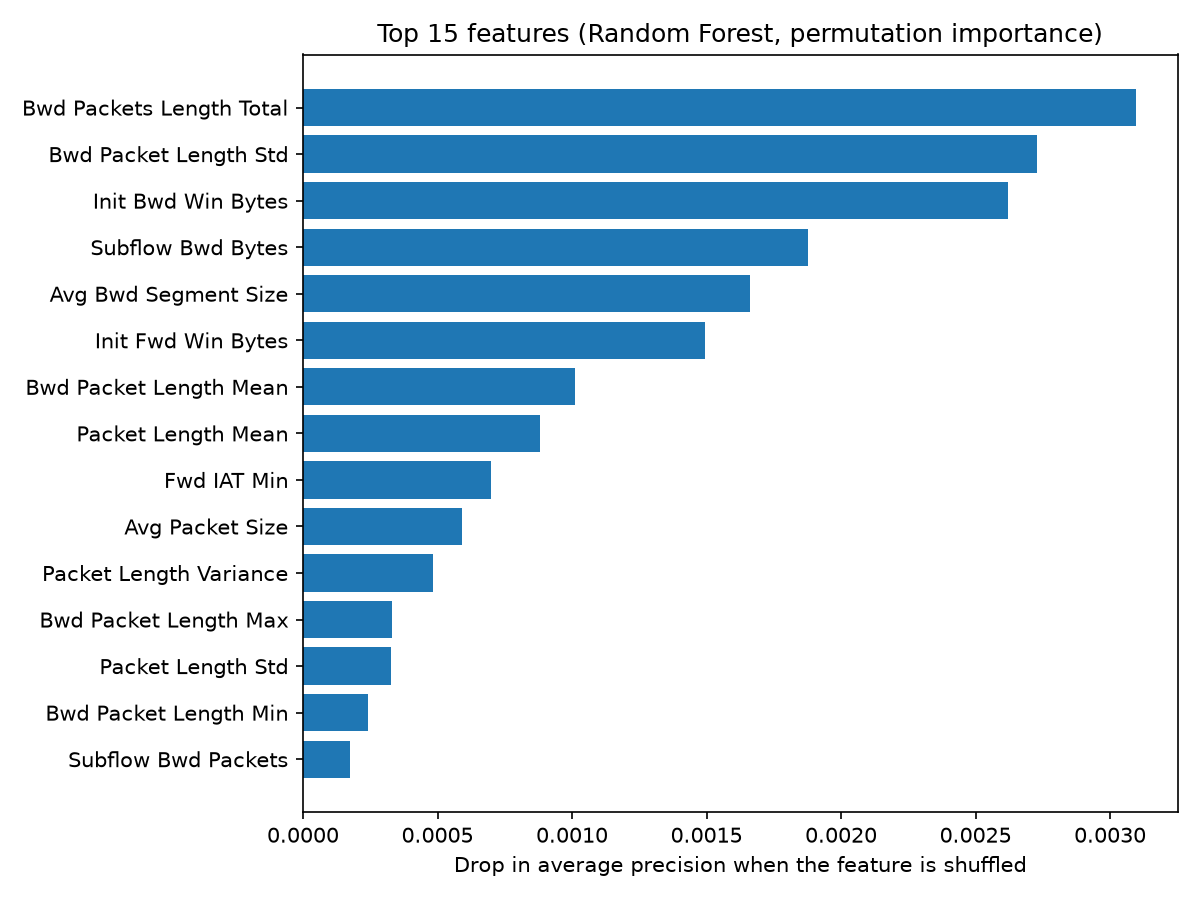
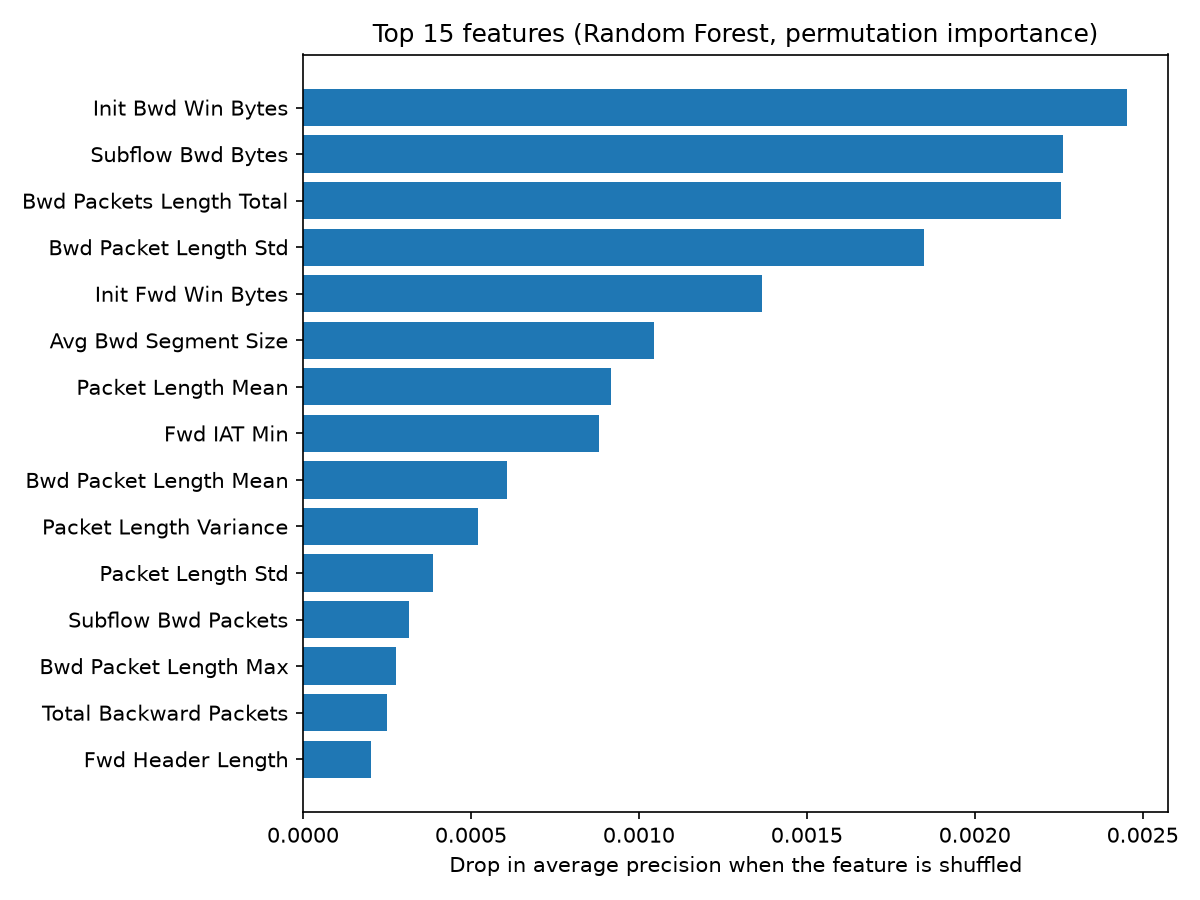
Update README and feature importance for the validation-split results

diff --git a/README.md b/README.md
@@ -1,4 +1,4 @@
-# Network Intrusion Detection System (ML)
+# Network Intrusion Detection System (ML)
 
 Machine-learning NIDS trained on the CIC-IDS2017 dataset, with an interactive Streamlit dashboard for exploring detections, false alarms, and the effect of the alert threshold.
 
@@ -38,9 +38,9 @@ Attack classes are heavily imbalanced: Heartbleed (11 flows), Infiltration (36) 
 ## Methodology
 
 1. `src/data_loader.py`: load, normalize labels (a corrupted dash in the web-attack labels is fixed), cast to float32, deduplicate globally, cache to Parquet.
-2. `src/preprocess.py`: drop constant features; 70/30 split stratified on the full attack label.
+2. `src/preprocess.py`: drop constant features; 70/30 split stratified on the full attack label, then the training part is split again 75/25 (52.5% train, 17.5% validation, 30% test).
 3. `src/train.py`: binary detection (benign vs attack) with Random Forest (100 trees, depth 20) and HistGradientBoosting (200 iterations), both class-weighted.
-4. `src/analyze.py`: threshold sweep, PR curves, confusion matrices.
+4. `src/analyze.py`: threshold sweep, PR curves, confusion matrices; alert thresholds are chosen on the validation set and saved to `models/thresholds.json`.
 5. `src/unseen_attacks.py`: hold out one attack family at a time and compare the supervised Random Forest with an Isolation Forest trained only on benign traffic.
 6. `src/explain.py`: permutation importance on 30,000 test flows.
 
@@ -50,19 +50,19 @@ Attack classes are heavily imbalanced: Heartbleed (11 flows), Infiltration (36) 
 
 | | Random Forest | Hist Gradient Boosting |
 |---|---|---|
-| Precision | 99.51% | 98.91% |
-| Recall | 99.72% | 99.90% |
-| False positive rate | 0.09% | 0.20% |
-| Missed attacks | 285 | 98 |
-| False alarms | 495 | 1,116 |
+| Precision | 99.53% | 99.21% |
+| Recall | 99.67% | 99.92% |
+| False positive rate | 0.09% | 0.14% |
+| Missed attacks | 337 | 81 |
+| False alarms | 476 | 806 |
 
-The threshold matters more than the model. With a budget of 0.1% false alarms, Random Forest catches 99.77% of attacks and HistGradientBoosting 99.71%. Both thresholds were picked on the test set, so these figures are slightly optimistic.
+The threshold matters more than the model. I chose each threshold on a separate validation split to stay within a 0.1% false-alarm budget (Random Forest 0.474, HistGradientBoosting 0.715), then evaluated it once on the untouched test set. Random Forest catches 99.70% of attacks (299 missed, 535 false alarms) and HistGradientBoosting 99.81% (187 missed, 536 false alarms). The false-alarm rate on the test set (0.096%) stayed within the budget for both models.
 
 ![Confusion matrices](reports/figures/confusion_matrices.png)
 
 ### Weakest attack types (Random Forest, threshold 0.5)
 
-Bot 82.4%, Web Brute Force 92.5%. The very small classes (SQL injection 1 of 6, Infiltration 9 of 11, Heartbleed 3 of 3) are too small to draw conclusions from.
+Bot 81.7%, Web Brute Force 93.0%. The very small classes (SQL injection 1 of 6, Infiltration 9 of 11, Heartbleed 3 of 3) are too small to draw conclusions from.
 
 ### Unseen attack families
 
@@ -88,7 +88,7 @@ Features describing the server's replies (backward packet length, segment size, 
 
 - CIC-IDS2017 is from 2017 and was generated in a controlled lab; the models are not expected to work as-is on real networks.
 - The random split places similar flows from the same attack session in train and test, so the headline scores are an upper bound.
-- Thresholds were tuned on the test set; a separate validation split would be cleaner.
+- Validation and test come from the same random split, so the threshold transfer shown here is optimistic for real traffic.
 - Initial TCP window sizes may reflect lab machine configuration rather than attack behavior (not tested).
 - Rare classes cannot be evaluated reliably.
 - Detection is flow-based and offline; live packet capture is not implemented.
@@ -116,6 +116,6 @@ python -m venv .venv
 ## Possible next steps
 
 - Multi-class classification by attack type.
-- Validation split for threshold selection and cross-validation.
+- Cross-validation, ideally leave-one-day-out, to test generalization.
 - Live capture with controlled test traffic.
 - Drift monitoring and retraining.
